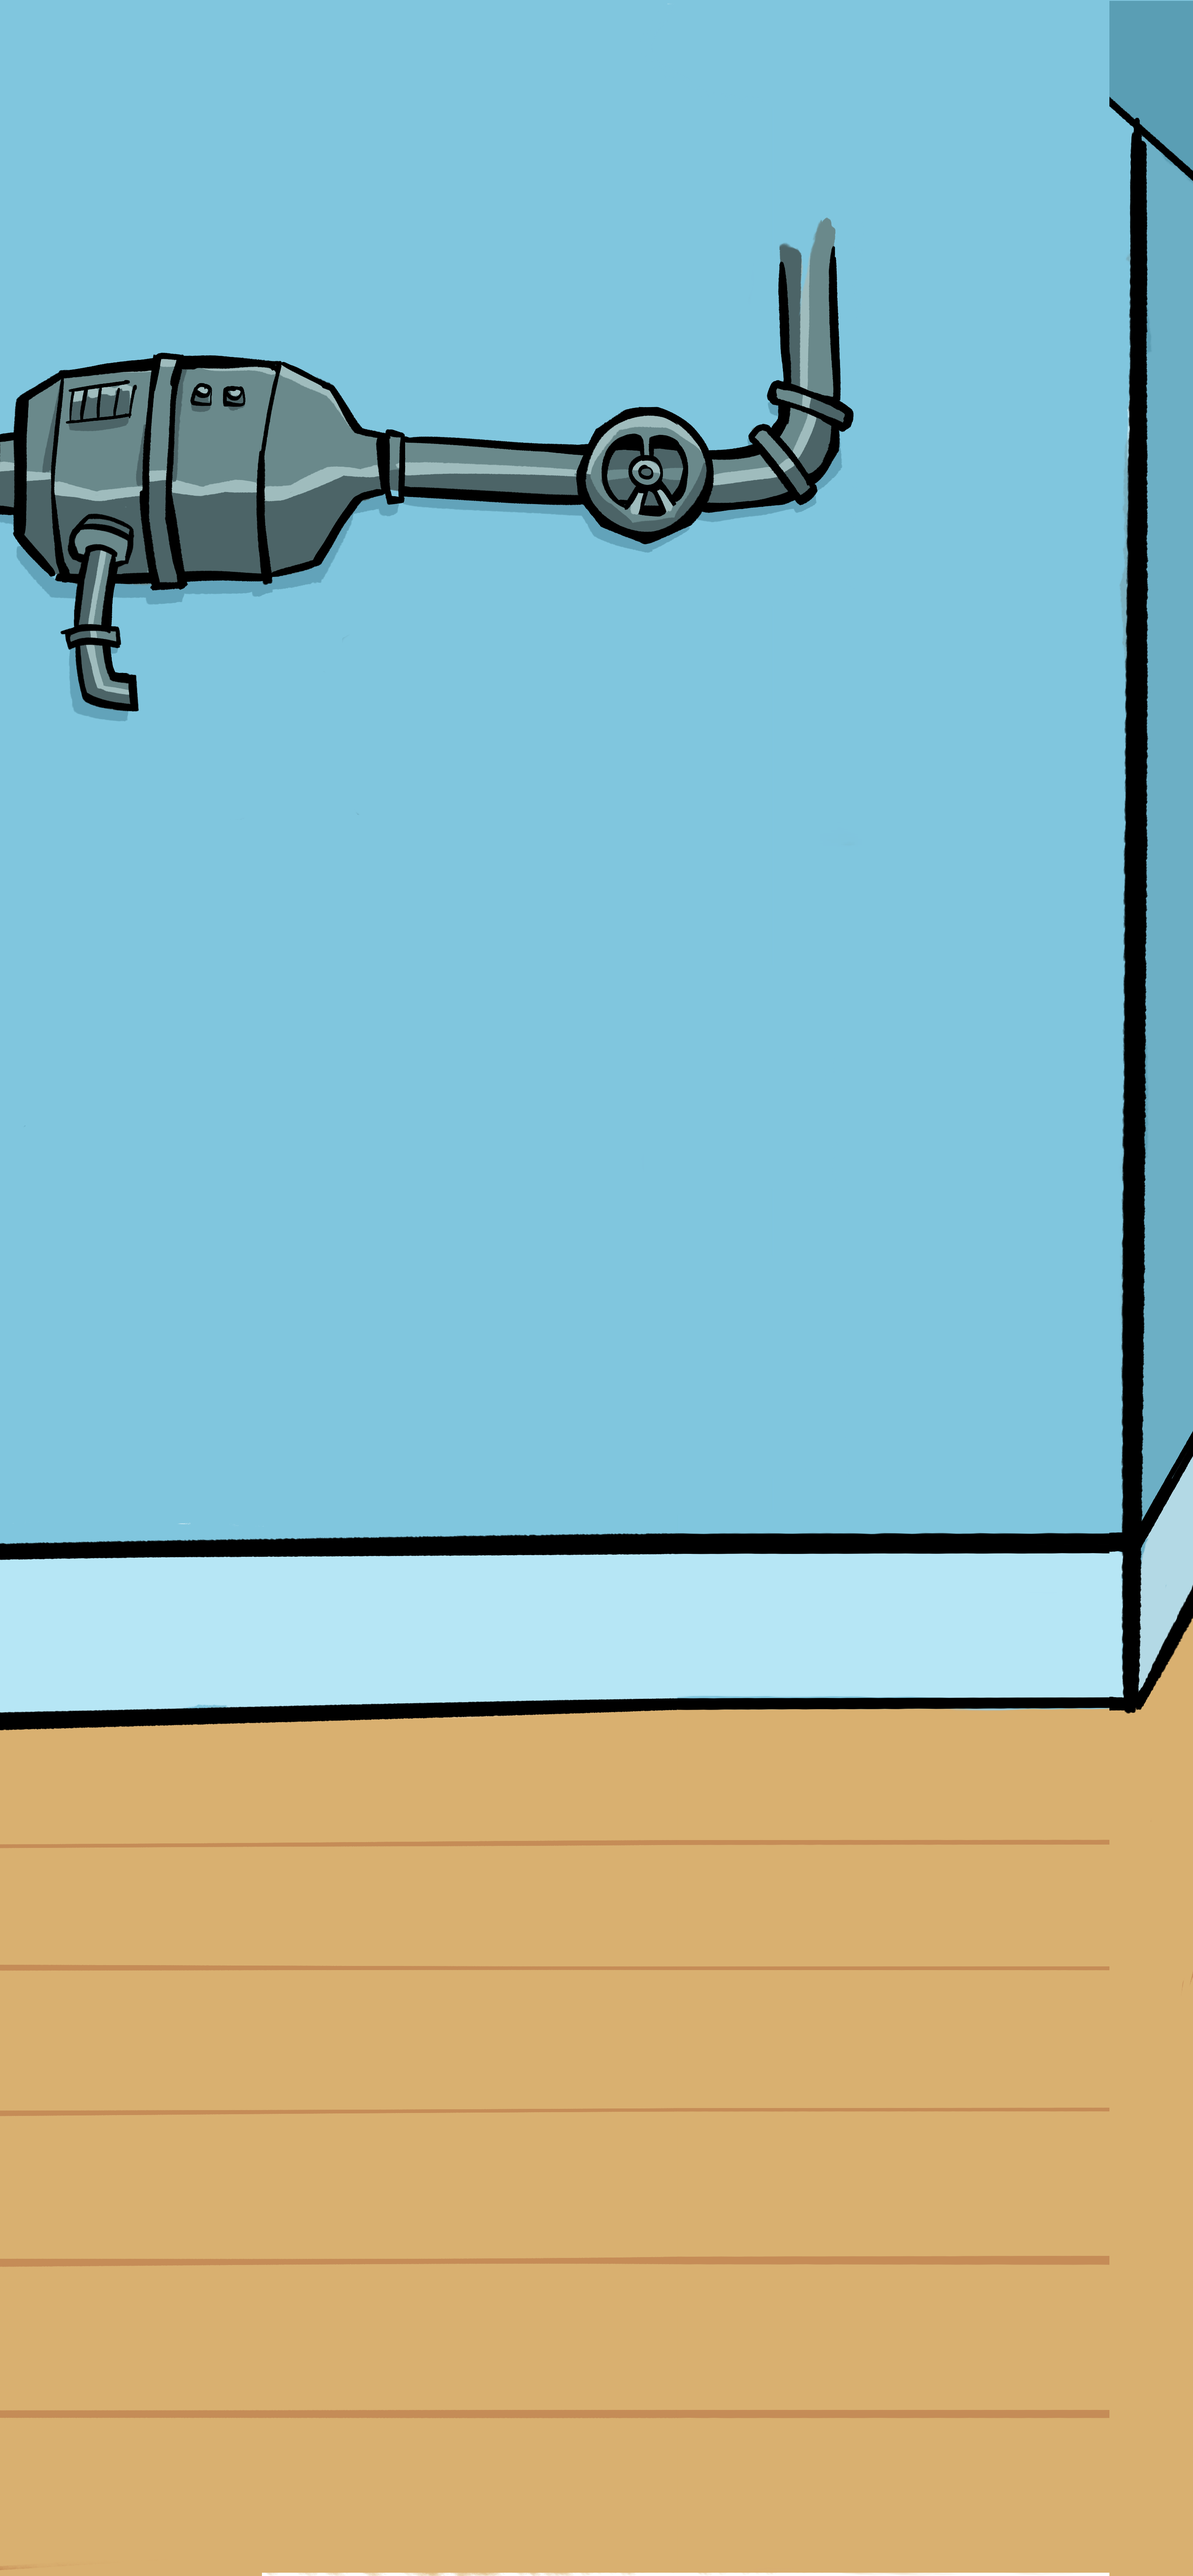
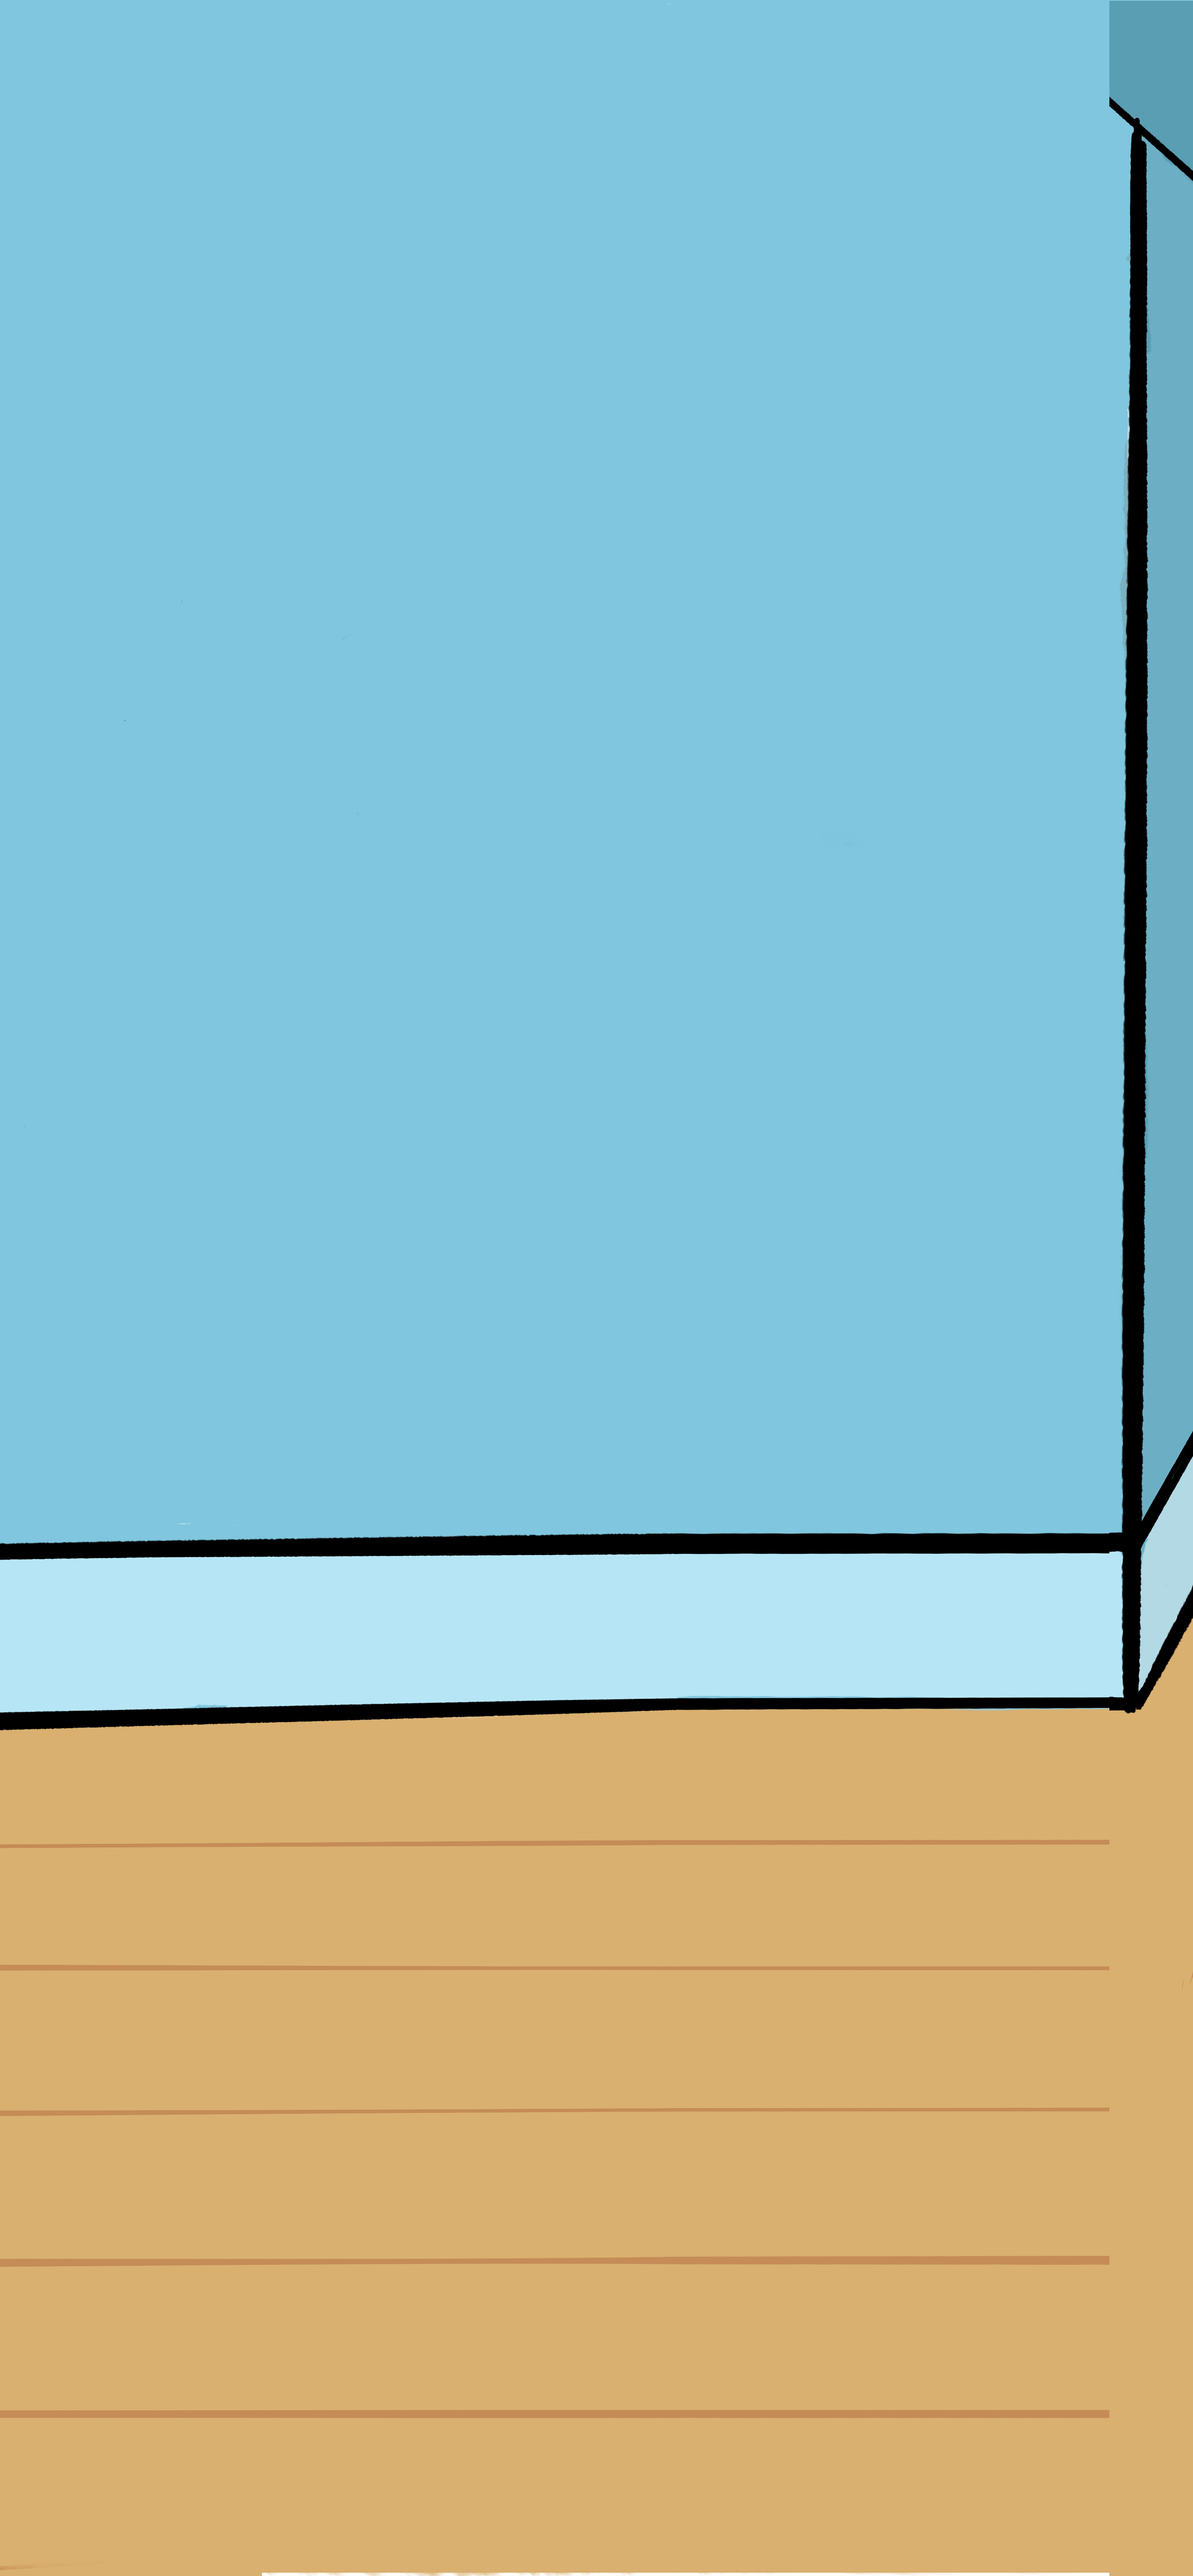
lookin good

Changed region(s): [[0.0, 0.0624, 0.718, 0.2807]]

diff --git a/src/RoomBrewery.tsx b/src/RoomBrewery.tsx
@@ -5,6 +5,11 @@ import spigotConnector from './assets/spigot_connector.png'
 import './assets/spigot_end.png'
 import shelf from './assets/brew_shelf.png'
 
+import tank from './assets/brew_tank.png'
+import tankArm from './assets/brew_tank_arm.png'
+import tankL from './assets/brew_tank_L.png'
+import tankConnector from './assets/brew_tank_connector.png'
+
 import glass0 from './assets/glass_0p.png'
 import glass40 from './assets/glass_40p_1.png'
 import glass80 from './assets/glass_80p_1.png'
@@ -12,7 +17,14 @@ import boba from './assets/boba.png'
 
 export default function RoomBrewery() {
     return <div className="room">
-        <img className="room-bg" src={bg}></img>
+        <img className="room-bg" src={bg}/>
+
+        <div className="tank">
+            <img className="part-connector" src={tankConnector}/>
+            <img className="part-L" src={tankL}/>
+            <img className="part-tank" src={tank}/>
+            <img className="part-arm" src={tankArm}/>
+        </div>
 
         <div className="spigot-holder">
 
@@ -20,63 +32,63 @@ export default function RoomBrewery() {
 
                 <div className="spigot-row">
                     <div className="brew-station">
-                        <img className="spigot" src={spigotConnector}></img>
-                        <img className="drink" src={glass0}></img>
+                        <img className="spigot" src={spigotConnector}/>
+                        <img className="drink" src={glass0}/>
                     </div>
                     <div className="brew-station">
-                        <img className="spigot" src={spigotConnector}></img>
-                        <img className="drink" src={glass40}></img>
+                        <img className="spigot" src={spigotConnector}/>
+                        <img className="drink" src={glass40}/>
                     </div>
                     <div className="brew-station">
-                        <img className="spigot" src={spigotConnector}></img>
-                        <img className="drink" src={glass80}></img>
+                        <img className="spigot" src={spigotConnector}/>
+                        <img className="drink" src={glass80}/>
                     </div>
                     <div className="brew-station">
-                        <img className="spigot" src={spigotConnector}></img>
-                        <img className="drink" src={boba}></img>
+                        <img className="spigot" src={spigotConnector}/>
+                        <img className="drink" src={boba}/>
                     </div>
                     <div className="brew-station">
-                        <img className="spigot" src={spigotConnector}></img>
-                        <img className="drink" src={boba}></img>
+                        <img className="spigot" src={spigotConnector}/>
+                        <img className="drink" src={boba}/>
                     </div>
                     <div className="brew-station">
-                        <img className="spigot" src={spigotConnector}></img>
-                        <img className="drink" src={boba}></img>
+                        <img className="spigot" src={spigotConnector}/>
+                        <img className="drink" src={boba}/>
                     </div>
                 </div>
 
-                <img className="shelf" src={shelf}></img>
+                <img className="shelf" src={shelf}/>
             </div>
 
             <div className="spigot-shelf flip">
                 <div className="spigot-row">
                     <div className="brew-station">
-                        <img className="spigot" src={spigotConnector}></img>
-                        <img className="drink" src={glass0}></img>
+                        <img className="spigot" src={spigotConnector}/>
+                        <img className="drink" src={glass0}/>
                     </div>
                     <div className="brew-station">
-                        <img className="spigot" src={spigotConnector}></img>
-                        <img className="drink" src={glass40}></img>
+                        <img className="spigot" src={spigotConnector}/>
+                        <img className="drink" src={glass40}/>
                     </div>
                     <div className="brew-station">
-                        <img className="spigot" src={spigotConnector}></img>
-                        <img className="drink" src={glass80}></img>
+                        <img className="spigot" src={spigotConnector}/>
+                        <img className="drink" src={glass80}/>
                     </div>
                     <div className="brew-station">
-                        <img className="spigot" src={spigotConnector}></img>
-                        <img className="drink" src={boba}></img>
+                        <img className="spigot" src={spigotConnector}/>
+                        <img className="drink" src={boba}/>
                     </div>
                     <div className="brew-station">
-                        <img className="spigot" src={spigotConnector}></img>
-                        <img className="drink" src={boba}></img>
+                        <img className="spigot" src={spigotConnector}/>
+                        <img className="drink" src={boba}/>
                     </div>
                     <div className="brew-station">
-                        <img className="spigot" src={spigotConnector}></img>
-                        <img className="drink" src={boba}></img>
+                        <img className="spigot" src={spigotConnector}/>
+                        <img className="drink" src={boba}/>
                     </div>
                 </div>
 
-                <img className="shelf" src={shelf}></img>
+                <img className="shelf" src={shelf}/>
             
             </div>
 

diff --git a/src/RoomBrewery.css b/src/RoomBrewery.css
@@ -1,5 +1,42 @@
+.tank {
+    position: relative;
+    height: 2.7rem;
+    margin-left: -0.4rem;
+
+    .part-tank {
+        height: 3rem;
+        position: relative;
+        z-index: -1;
+        margin-left: -0.5rem;
+        margin-top: -1.0rem;
+    }
+
+    .part-arm {
+        position: absolute;
+        z-index: -1;
+        top: 1rem;
+        left: 0.5rem;
+        width: 1rem;
+    }
+
+    .part-L {
+        position: absolute;
+        z-index: -1;
+        top: -2.8rem;
+        left: 4.7rem;
+        height: 4rem;
+    }
+
+    .part-connector {
+        position: absolute;
+        z-index: 1;
+        right: 0rem;
+        top: 3.0rem;
+        height: 9.3rem;
+    }
+}
+
 .spigot-holder {
-    margin-top: 3.8rem;
     margin-left: 0.8rem;
 
     display: flex;
@@ -8,18 +45,14 @@
 
     .spigot-shelf {
         
-        &:not(.flip) > .spigot-row {
-            .brew-station:last-child {
-                .spigot {
-                    content: url("assets/spigot_end.png")
-                }
-            }
-        }
         &.flip > .spigot-row {
             .spigot { translate: 0.7rem 0; }
             .brew-station:first-child {
                 .spigot {
-                    content: url("assets/spigot_end.png")
+                    content: url("assets/spigot_outline.png")
+                }
+                .drink {
+                    content: url("assets/glass_outline.png")
                 }
             }
         }
